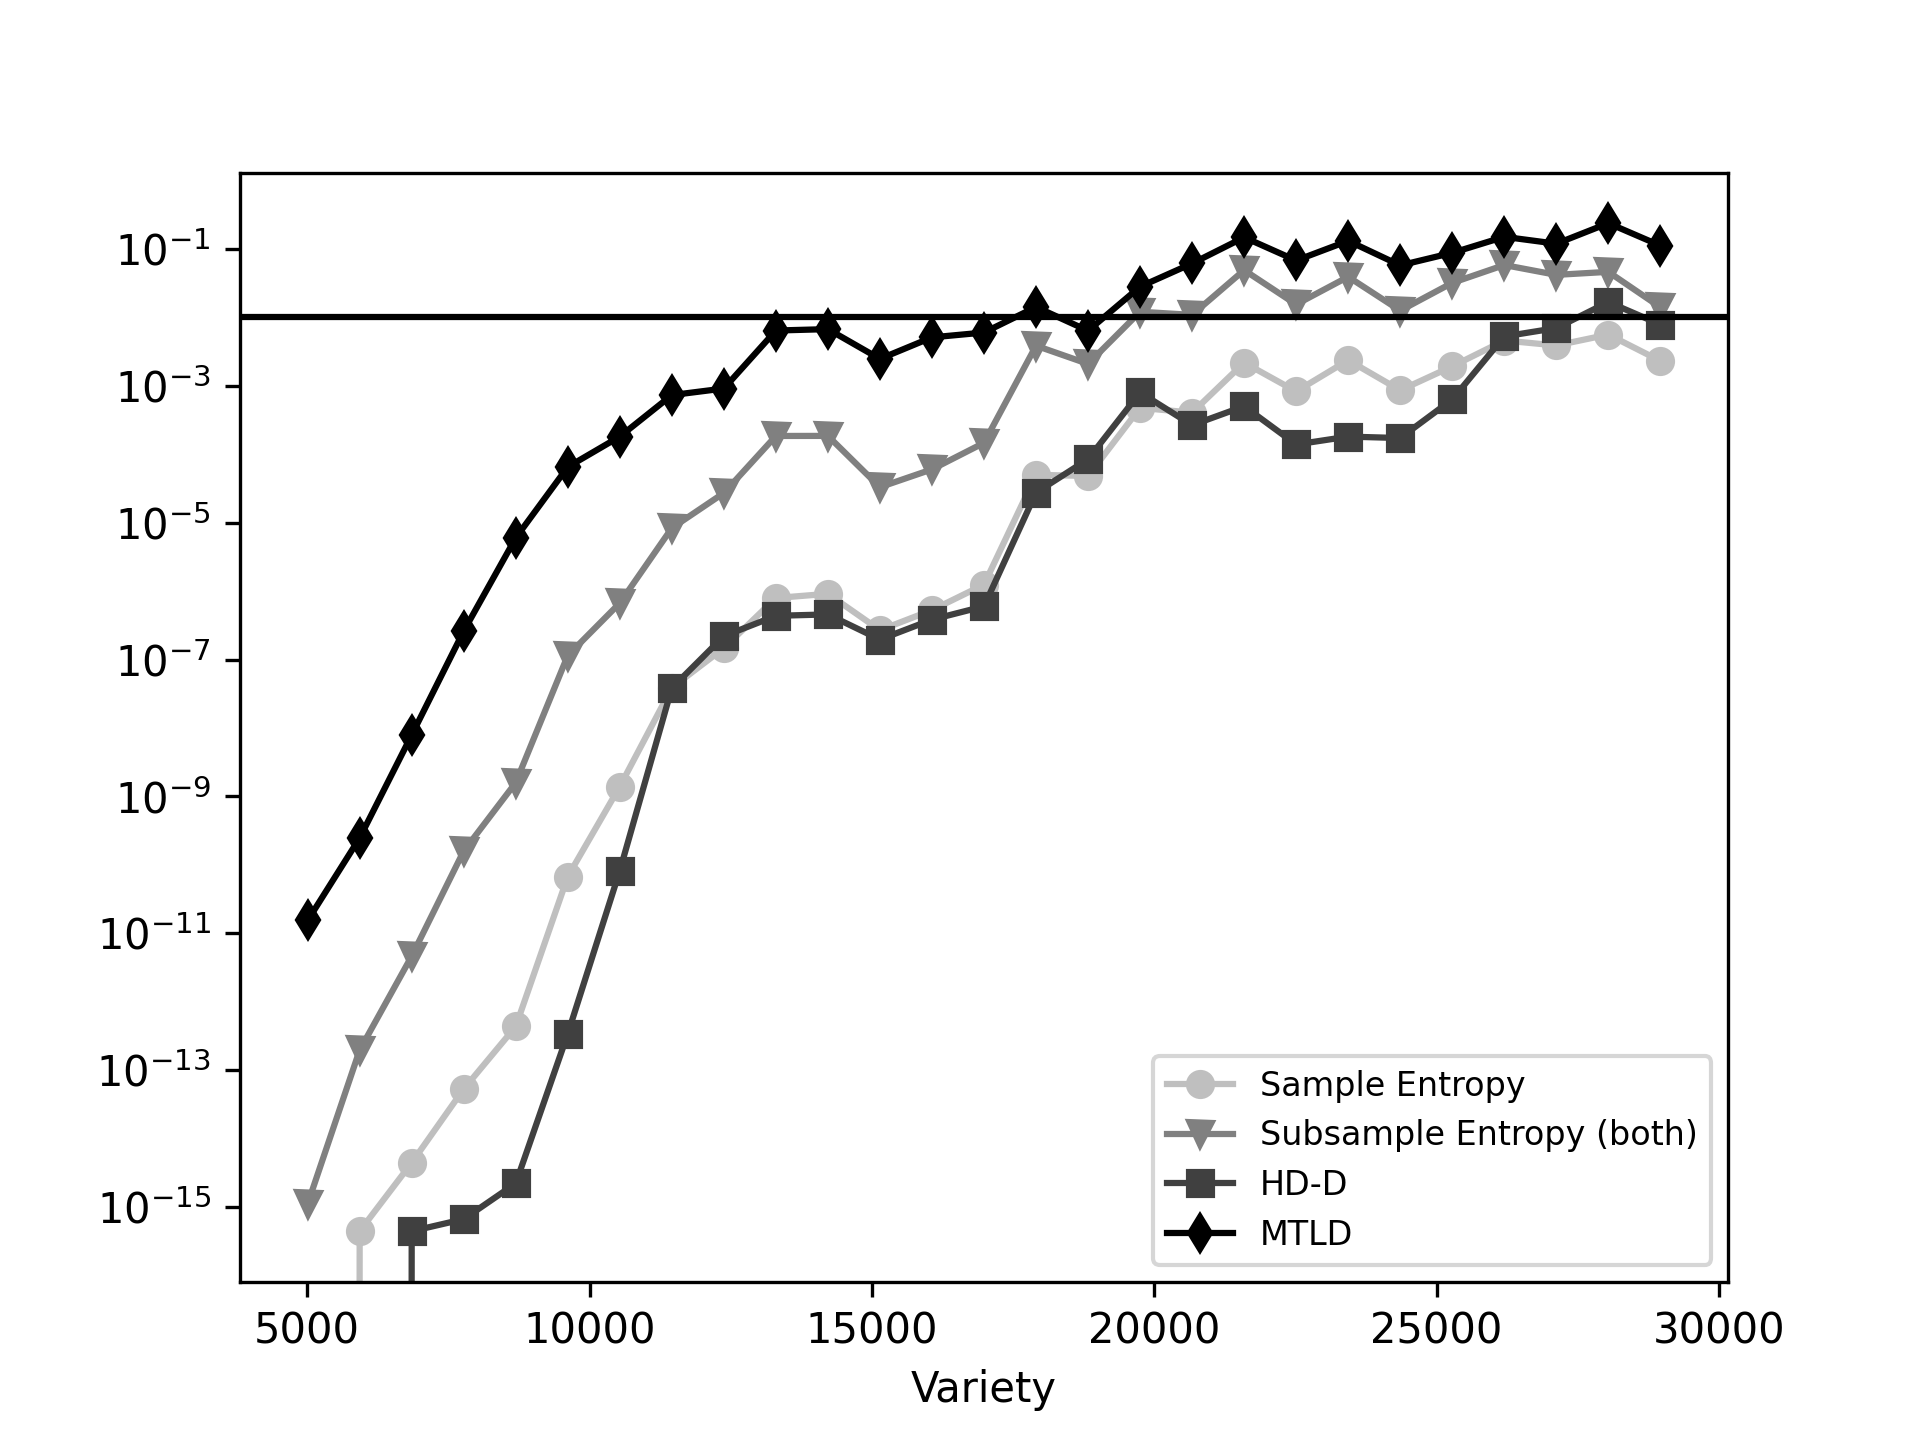
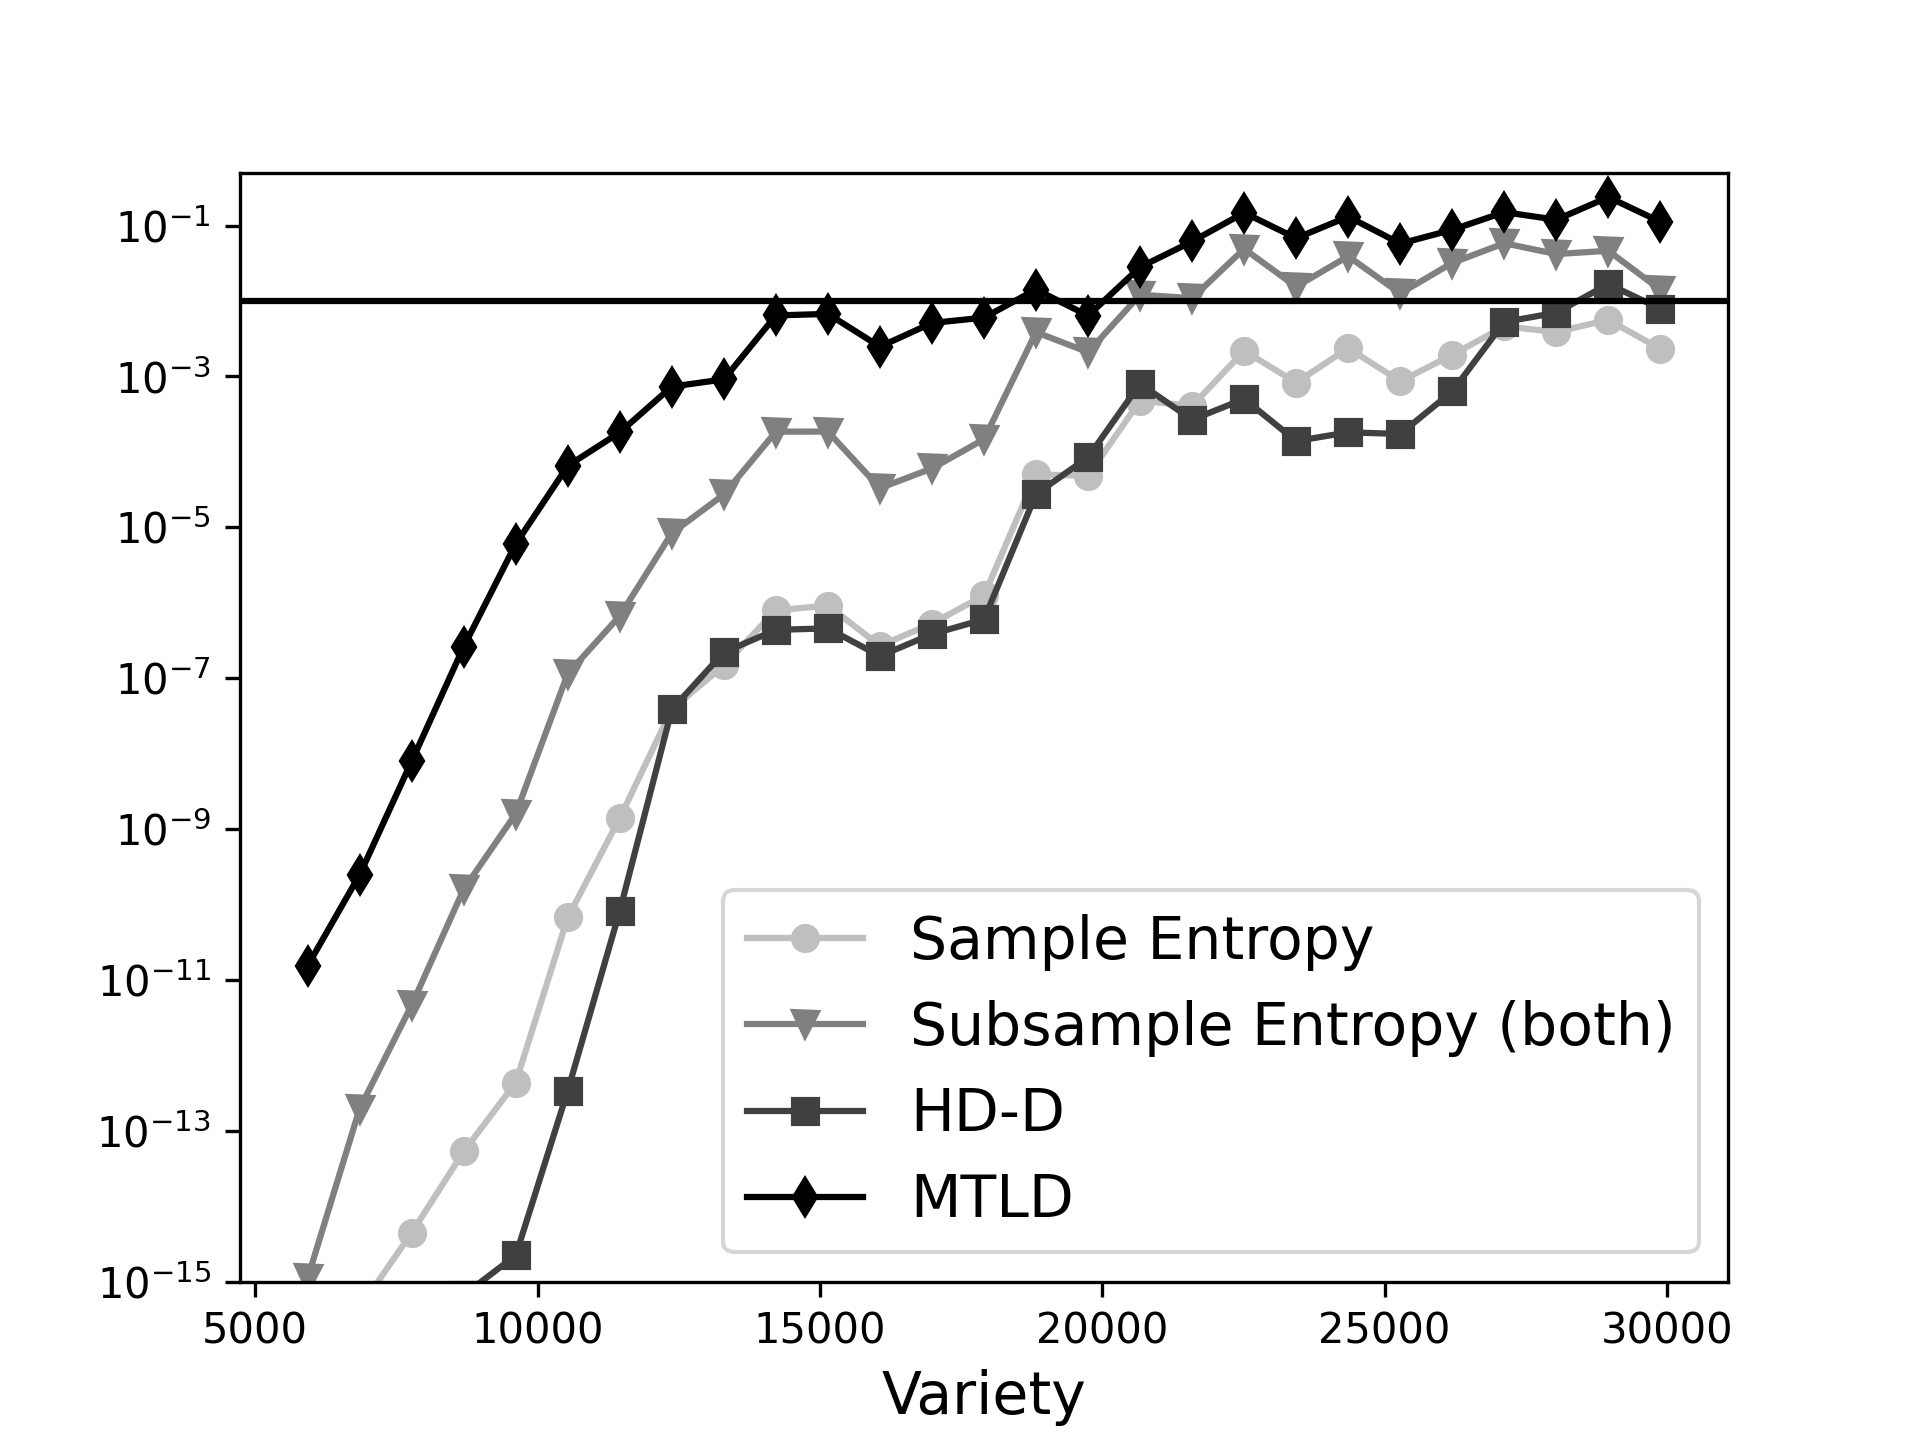
refine plots

diff --git a/src/artificial_corpora_analyse_pvalue.py b/src/artificial_corpora_analyse_pvalue.py
@@ -12,7 +12,7 @@ input_file_path = "../results/artificial_corpora/zm_res_1/zm_1_merge.csv"
 output_folder_path = "../results"
 output_file_prefix = "pzm_plot"
 min_prop_to_compute_mtld = 0.6
-shift_value = -1
+shift_value = 1
 rolling_value = 3
 
 
@@ -69,11 +69,11 @@ for id_type, graph_type in enumerate(graph_types):
                  color=color_map(measure_name_id+1),
                  marker=markers[measure_name_id], 
                  label=measure_clean_names[measure_name_id])
-        
-    plt.legend(loc='lower right', fontsize='8')
-    plt.xlabel(graph_type_names[id_type])
+    if graph_type == 'variety':
+        plt.legend(fontsize='14')
+    plt.xlabel(graph_type_names[id_type], fontsize='14')
     plt.axhline(y=0.01, color="black")
-    #plt.ylim([0, 0.1])
+    plt.ylim([1e-15, 0.5])
     plt.yscale("log")
     plt.savefig(f"{output_folder_path}/{output_file_prefix}_{graph_type}.png", 
                 dpi=300)

diff --git a/src/artificial_corpora_analyse_res.py b/src/artificial_corpora_analyse_res.py
@@ -60,12 +60,12 @@ for id_type, graph_type in enumerate(graph_types):
 
         # Plot it 
         plt.plot(measure_mean.index, measure_mean.values, 
-                color=color_map(measure_name_id+1),
-                marker=markers[measure_name_id], 
-                label=measure_clean_names[measure_name_id])
+                 color=color_map(measure_name_id+1),
+                 marker=markers[measure_name_id], 
+                 label=measure_clean_names[measure_name_id])
             
-    plt.legend(loc='lower right', fontsize='8')
-    plt.xlabel(graph_type_names[id_type])
+    #plt.legend(loc='lower right', fontsize='8')
+    plt.xlabel(graph_type_names[id_type], fontsize='14')
     plt.ylim((0, 1))
     plt.savefig(f"{output_folder_path}/{output_file_prefix}_{graph_type}.png", 
                 dpi=300)
